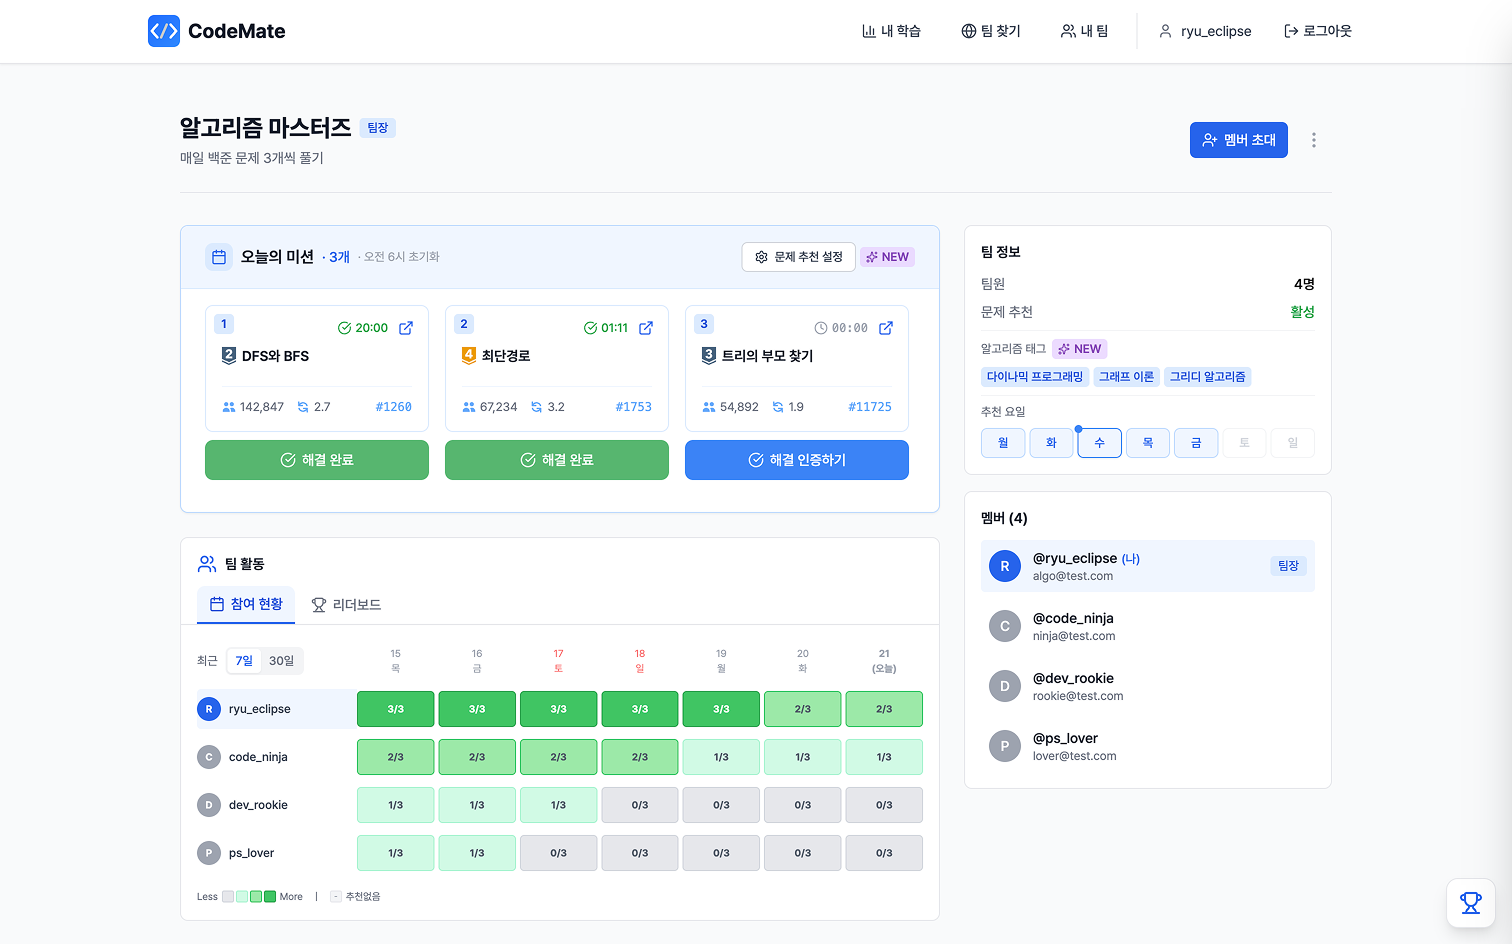
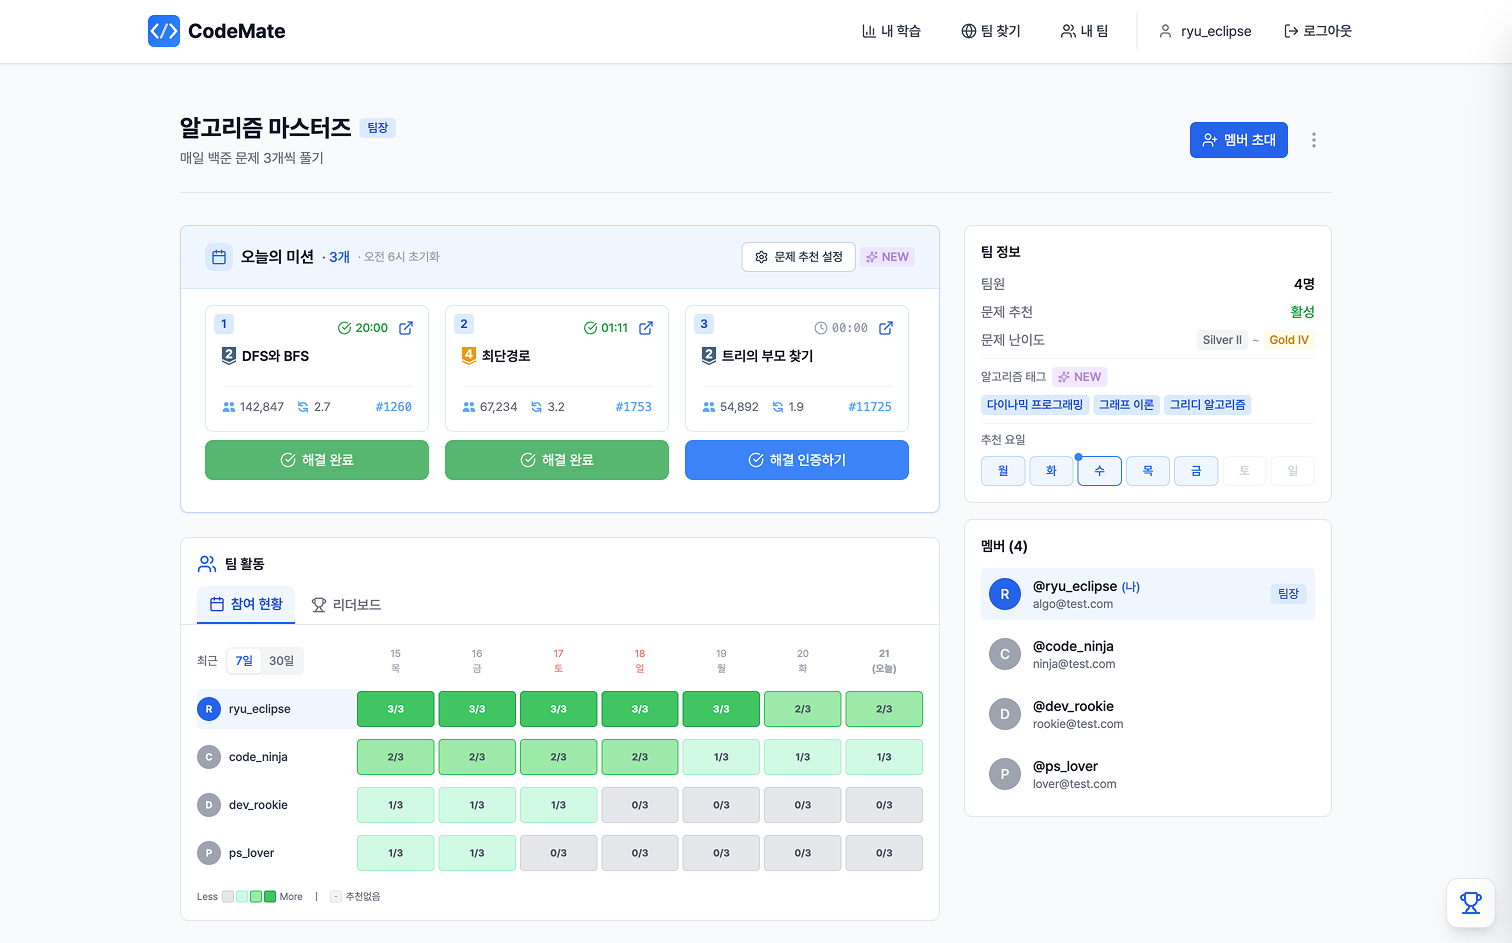
feat: 랜딩페이지 Hero 섹션 및 스크린샷 갤러리 개선
- Hero 섹션 폰트 크기 조정 (PC/모바일 반응형)
- 스크린샷 갤러리에 team-2.png 추가 (미션 문제 맞춤 설정)
- 캡션 수정: 내 학습, 내 학습 : 최근 활동, 오늘의 팀 미션, 미션 문제 맞춤 설정
- 데모 데이터 난이도 범위 수정 (Silver II ~ Gold IV)

🤖 Generated with [Claude Code](https://claude.com/claude-code)

diff --git a/src/pages/home/components/HeroSection.tsx b/src/pages/home/components/HeroSection.tsx
@@ -1,6 +1,6 @@
 import { Link } from 'react-router-dom';
 import { useState } from 'react';
-import { ArrowRight, Users, Target, Bell, ChevronDown } from 'lucide-react';
+import { ArrowRight, Users, SlidersHorizontal, Mail, BarChart3, ChevronDown } from 'lucide-react';
 import TodayProblemsPreview from './TodayProblemsPreview';
 
 const faqs = [
@@ -17,20 +17,20 @@ export default function HeroSection() {
   return (
     <div className="bg-gray-50">
       {/* Hero */}
-      <div className="flex flex-col items-center justify-center px-6 pt-20 pb-16">
-        <p className="text-sm font-medium text-blue-500 tracking-widest uppercase mb-2">CodeMate</p>
-        <h1 className="font-bold text-center mb-6">
-          <span className="block text-4xl sm:text-5xl md:text-6xl text-blue-600">알고리즘 스터디</span>
-          <span className="block text-3xl sm:text-4xl md:text-5xl text-gray-900 mt-2">매일 문제가 도착합니다</span>
+      <div className="flex flex-col items-center justify-center px-4 sm:px-6 pt-16 sm:pt-20 pb-12 sm:pb-16">
+        <p className="text-sm sm:text-lg font-medium text-blue-500 tracking-widest uppercase mb-2 sm:mb-3">CodeMate</p>
+        <h1 className="font-bold text-center mb-6 sm:mb-8">
+          <span className="block text-3xl sm:text-4xl md:text-5xl lg:text-6xl text-blue-600">알고리즘 스터디</span>
+          <span className="block text-2xl sm:text-3xl md:text-4xl lg:text-5xl text-gray-900 mt-2 sm:mt-3">매일 문제가 도착합니다</span>
         </h1>
 
-        <p className="text-gray-500 text-lg sm:text-xl mb-12">
+        <p className="text-gray-500 text-base sm:text-lg md:text-xl mb-8 sm:mb-12 px-4">
           스터디원들과 매일 같은 문제를 풀어보세요
         </p>
 
         <Link
           to="/dashboard"
-          className="group inline-flex items-center px-8 py-4 text-lg font-medium rounded-xl text-white bg-blue-600 hover:bg-blue-700 transition-colors"
+          className="group inline-flex items-center px-7 sm:px-8 py-3.5 sm:py-4 text-lg sm:text-lg font-medium rounded-xl text-white bg-blue-600 hover:bg-blue-700 transition-colors"
         >
           시작하기
           <ArrowRight className="ml-2 h-4 w-4 group-hover:translate-x-0.5 transition-transform" />
@@ -38,30 +38,46 @@ export default function HeroSection() {
       </div>
 
       {/* 핵심 기능 */}
-      <div className="flex justify-center gap-12 sm:gap-16 px-6 py-12 border-t border-gray-200">
-        <div className="flex items-center gap-2 text-gray-600">
-          <Users className="h-5 w-5 text-blue-500" />
-          <span>팀 스터디</span>
+      <div className="grid grid-cols-2 sm:grid-cols-4 gap-3 sm:gap-6 px-4 sm:px-6 py-8 sm:py-12 border-t border-gray-200 max-w-5xl mx-auto">
+        <div className="flex flex-col items-center text-center gap-2 sm:gap-3 p-3 sm:p-4">
+          <div className="w-10 h-10 sm:w-12 sm:h-12 rounded-full bg-blue-100 flex items-center justify-center">
+            <Users className="h-5 w-5 sm:h-6 sm:w-6 text-blue-600" />
+          </div>
+          <h3 className="font-semibold text-gray-900 text-base sm:text-lg">팀 스터디</h3>
+          <p className="text-sm sm:text-base text-gray-500">팀원 모두가 안 푼 문제만 추천받아 함께 풀어요</p>
         </div>
-        <div className="flex items-center gap-2 text-gray-600">
-          <Target className="h-5 w-5 text-blue-500" />
-          <span>난이도 맞춤</span>
+        <div className="flex flex-col items-center text-center gap-2 sm:gap-3 p-3 sm:p-4">
+          <div className="w-10 h-10 sm:w-12 sm:h-12 rounded-full bg-blue-100 flex items-center justify-center">
+            <SlidersHorizontal className="h-5 w-5 sm:h-6 sm:w-6 text-blue-600" />
+          </div>
+          <h3 className="font-semibold text-gray-900 text-base sm:text-lg">맞춤 추천</h3>
+          <p className="text-sm sm:text-base text-gray-500">난이도, 알고리즘 태그, 문제 수, 요일을 직접 설정해요</p>
         </div>
-        <div className="flex items-center gap-2 text-gray-600">
-          <Bell className="h-5 w-5 text-blue-500" />
-          <span>매일 알림</span>
+        <div className="flex flex-col items-center text-center gap-2 sm:gap-3 p-3 sm:p-4">
+          <div className="w-10 h-10 sm:w-12 sm:h-12 rounded-full bg-blue-100 flex items-center justify-center">
+            <Mail className="h-5 w-5 sm:h-6 sm:w-6 text-blue-600" />
+          </div>
+          <h3 className="font-semibold text-gray-900 text-base sm:text-lg">이메일 알림</h3>
+          <p className="text-sm sm:text-base text-gray-500">매일 오전 9시<span className="text-xs text-gray-400 ml-0.5">KST</span>, 오늘의 문제가 이메일로 도착해요</p>
+        </div>
+        <div className="flex flex-col items-center text-center gap-2 sm:gap-3 p-3 sm:p-4">
+          <div className="w-10 h-10 sm:w-12 sm:h-12 rounded-full bg-blue-100 flex items-center justify-center">
+            <BarChart3 className="h-5 w-5 sm:h-6 sm:w-6 text-blue-600" />
+          </div>
+          <h3 className="font-semibold text-gray-900 text-base sm:text-lg">진행률 확인</h3>
+          <p className="text-sm sm:text-base text-gray-500">팀원들의 문제 해결 현황을 한눈에 확인해요</p>
         </div>
       </div>
 
       {/* 미리보기 - 실제 TodayProblems와 동일한 UI */}
-      <div className="px-6 py-12">
-        <div className="max-w-6xl mx-auto">
+      <div className="px-2 sm:px-4 md:px-6 py-8 sm:py-12">
+        <div className="max-w-7xl mx-auto">
           <TodayProblemsPreview />
         </div>
       </div>
 
       {/* FAQ 아코디언 */}
-      <div className="px-6 py-12">
+      <div className="px-4 sm:px-6 py-8 sm:py-12">
         <div className="max-w-xl mx-auto space-y-2">
           {faqs.map((faq, i) => (
             <div key={i} className="border border-gray-200 rounded-lg overflow-hidden">
@@ -69,7 +85,7 @@ export default function HeroSection() {
                 onClick={() => setOpenFaq(openFaq === i ? null : i)}
                 className="w-full px-4 py-3 text-left flex items-center justify-between bg-white hover:bg-gray-50 transition-colors"
               >
-                <span className="font-medium text-gray-900">{faq.q}</span>
+                <span className="font-medium text-gray-900 text-base">{faq.q}</span>
                 <ChevronDown
                   className={`h-4 w-4 text-gray-400 transition-transform ${openFaq === i ? 'rotate-180' : ''}`}
                 />
@@ -79,7 +95,7 @@ export default function HeroSection() {
                   openFaq === i ? 'max-h-24' : 'max-h-0'
                 }`}
               >
-                <div className="px-4 pb-3 text-gray-600 text-sm">{faq.a}</div>
+                <div className="px-4 pb-3 text-gray-600 text-base">{faq.a}</div>
               </div>
             </div>
           ))}

diff --git a/src/pages/home/components/TodayProblemsPreview.tsx b/src/pages/home/components/TodayProblemsPreview.tsx
@@ -6,12 +6,12 @@ function BrowserFrame({ children }: { children: React.ReactNode }) {
   return (
     <div className="rounded-xl overflow-hidden shadow-lg border border-gray-200 bg-white">
       {/* 브라우저 상단바 */}
-      <div className="bg-gray-100 border-b border-gray-200 px-4 py-3 flex items-center">
+      <div className="bg-gray-100 border-b border-gray-200 px-3 sm:px-4 py-2 sm:py-3 flex items-center">
         {/* 트래픽 라이트 버튼 */}
-        <div className="flex items-center gap-2">
-          <div className="w-3 h-3 rounded-full bg-[#FF5F57]" />
-          <div className="w-3 h-3 rounded-full bg-[#FEBC2E]" />
-          <div className="w-3 h-3 rounded-full bg-[#28C840]" />
+        <div className="flex items-center gap-1.5 sm:gap-2">
+          <div className="w-2.5 h-2.5 sm:w-3 sm:h-3 rounded-full bg-[#FF5F57]" />
+          <div className="w-2.5 h-2.5 sm:w-3 sm:h-3 rounded-full bg-[#FEBC2E]" />
+          <div className="w-2.5 h-2.5 sm:w-3 sm:h-3 rounded-full bg-[#28C840]" />
         </div>
       </div>
       {/* 브라우저 콘텐츠 */}
@@ -24,16 +24,17 @@ function BrowserFrame({ children }: { children: React.ReactNode }) {
 
 // 모든 이미지를 플랫하게 펼침
 const allImages = [
-  { src: '/screenshots/dashboard-1.png', caption: '가입한 팀 목록', tabId: 'dashboard' },
-  { src: '/screenshots/dashboard-2.png', caption: '오늘의 문제', tabId: 'dashboard' },
+  { src: '/screenshots/dashboard-1.png', caption: '내 학습', tabId: 'dashboard' },
+  { src: '/screenshots/dashboard-2.png', caption: '내 학습 : 최근 활동', tabId: 'dashboard' },
   { src: '/screenshots/team-1.png', caption: '오늘의 팀 미션', tabId: 'team' },
+  { src: '/screenshots/team-2.png', caption: '미션 문제 맞춤 설정', tabId: 'team' },
   { src: '/screenshots/email.png', caption: '오늘의 미션 알림', tabId: 'email' },
 ];
 
 const tabs = [
   { id: 'dashboard', title: '내 학습', startIndex: 0 },
   { id: 'team', title: '팀 페이지', startIndex: 2 },
-  { id: 'email', title: '이메일', startIndex: 3 },
+  { id: 'email', title: '이메일', startIndex: 4 },
 ];
 
 export default function TodayProblemsPreview() {
@@ -63,43 +64,47 @@ export default function TodayProblemsPreview() {
 
   return (
     <div className="space-y-4">
-      <div className="flex items-center gap-2">
-        <span className="px-2 py-0.5 bg-blue-100 text-blue-700 text-xs font-medium rounded">예시</span>
-        <span className="text-sm text-gray-500">실제 사용 화면</span>
-      </div>
+      {/* 라벨 + 탭 */}
+      <div className="flex flex-col sm:flex-row sm:items-center gap-3 sm:gap-0 sm:relative">
+        {/* 라벨 */}
+        <div className="flex items-center gap-2">
+          <span className="px-2 py-0.5 bg-blue-100 text-blue-700 text-xs font-medium rounded">예시</span>
+          <span className="text-sm text-gray-500">실제 사용 화면</span>
+        </div>
 
-      {/* 탭 */}
-      <div className="flex justify-center gap-2">
-        {tabs.map((tab, i) => (
-          <button
-            key={tab.id}
-            onClick={() => handleTabChange(i)}
-            className={`px-4 py-2 rounded-full text-sm font-medium transition-colors ${
-              i === activeTabIndex
-                ? 'bg-blue-600 text-white'
-                : 'bg-white text-gray-600 hover:bg-gray-100 border border-gray-200'
-            }`}
-          >
-            {tab.title}
-          </button>
-        ))}
+        {/* 탭: 모바일에서는 라벨 아래, 데스크탑에서는 중앙 */}
+        <div className="flex gap-2 sm:absolute sm:left-1/2 sm:-translate-x-1/2">
+          {tabs.map((tab, i) => (
+            <button
+              key={tab.id}
+              onClick={() => handleTabChange(i)}
+              className={`px-3 sm:px-4 py-1.5 sm:py-2 rounded-full text-xs sm:text-sm font-medium transition-colors ${
+                i === activeTabIndex
+                  ? 'bg-blue-600 text-white'
+                  : 'bg-white text-gray-600 hover:bg-gray-100 border border-gray-200'
+              }`}
+            >
+              {tab.title}
+            </button>
+          ))}
+        </div>
       </div>
 
       {/* 이미지 */}
       <div className="relative">
         <button
           onClick={goToPrev}
-          className="absolute left-2 sm:left-4 top-1/2 -translate-y-1/2 z-10 w-10 h-10 rounded-full bg-white/90 shadow-md flex items-center justify-center text-gray-500 hover:text-blue-600 hover:bg-white transition-colors"
+          className="absolute left-1 sm:left-4 top-1/2 -translate-y-1/2 z-10 w-8 h-8 sm:w-10 sm:h-10 rounded-full bg-white/90 shadow-md flex items-center justify-center text-gray-500 hover:text-blue-600 hover:bg-white transition-colors"
           aria-label="이전"
         >
-          <ChevronLeft className="w-5 h-5" />
+          <ChevronLeft className="w-4 h-4 sm:w-5 sm:h-5" />
         </button>
         <button
           onClick={goToNext}
-          className="absolute right-2 sm:right-4 top-1/2 -translate-y-1/2 z-10 w-10 h-10 rounded-full bg-white/90 shadow-md flex items-center justify-center text-gray-500 hover:text-blue-600 hover:bg-white transition-colors"
+          className="absolute right-1 sm:right-4 top-1/2 -translate-y-1/2 z-10 w-8 h-8 sm:w-10 sm:h-10 rounded-full bg-white/90 shadow-md flex items-center justify-center text-gray-500 hover:text-blue-600 hover:bg-white transition-colors"
           aria-label="다음"
         >
-          <ChevronRight className="w-5 h-5" />
+          <ChevronRight className="w-4 h-4 sm:w-5 sm:h-5" />
         </button>
 
         <BrowserFrame>

diff --git a/src/data/demoData.ts b/src/data/demoData.ts
@@ -65,7 +65,7 @@ export const demoTodayProblems: DemoTeamProblem[] = [
     problemId: 11725,
     title: 'Finding the Parent of a Tree',
     titleKo: '트리의 부모 찾기',
-    level: 8, // Silver II
+    level: 9, // Silver II
     url: 'https://www.acmicpc.net/problem/11725',
     acceptedUserCount: 54892,
     averageTries: 1.89,
@@ -89,8 +89,9 @@ export const demoRecommendationSettings: TeamRecommendationSettingsResponse = {
   teamId: 1,
   teamName: '알고리즘 마스터즈',
   problemCount: 3,
-  minProblemLevel: 11, // Gold V
-  maxProblemLevel: 14, // Gold II
+  problemDifficultyPreset: 'NORMAL',
+  minProblemLevel: 9, // Silver II
+  maxProblemLevel: 12, // Gold IV
   includeTags: ['dp', 'graphs', 'greedy'],
   recommendationDays: ['MONDAY', 'TUESDAY', 'WEDNESDAY', 'THURSDAY', 'FRIDAY'],
   isActive: true,
@@ -126,7 +127,7 @@ export const demoTodayProblemsResponse: TodayProblemsResponse = {
       problemId: 11725,
       title: 'Finding the Parent of a Tree',
       titleKo: '트리의 부모 찾기',
-      level: 8,
+      level: 9,
       url: 'https://www.acmicpc.net/problem/11725',
       acceptedUserCount: 54892,
       averageTries: 1.89,
@@ -224,7 +225,7 @@ const generateDemoDailySolved = (): DemoDailySolvedResponse => {
     [
       { problemId: 1753, title: '최단경로', tier: 12 },
       { problemId: 1260, title: 'DFS와 BFS', tier: 9 },
-      { problemId: 11725, title: '트리의 부모 찾기', tier: 8 },
+      { problemId: 11725, title: '트리의 부모 찾기', tier: 9 },
     ],
     [
       { problemId: 2178, title: '미로 탐색', tier: 10 },
